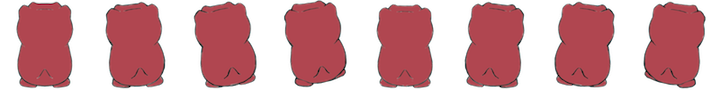
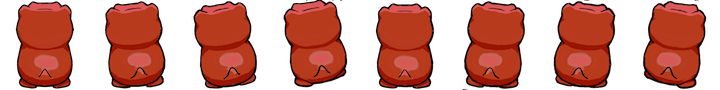
Added new enemy spritesheets

diff --git a/core/src/tiktaalik/trino/enemy/Enemy.java b/core/src/tiktaalik/trino/enemy/Enemy.java
@@ -371,13 +371,20 @@ public class Enemy extends EdibleObject {
      * @param canvas Drawing context
      */
     public void draw(Canvas canvas) {
+        float offsetX = 0;
+        float offsetY = 9;
+        if (direction == UP || direction == DOWN) {
+            offsetX = 3.5f;
+            offsetY = 13f;
+        }
+
         if (eatInProgress && eatenTextureSet != null) {
             if (animeframe >= numEatenFrames)
                 return;
 
             eatenTextureSet.setFrame((int)animeframe);
-            canvas.draw( eatenTextureSet, Color.WHITE,origin.x,origin.y,getX()*drawScale.x,
-                    getY()*drawScale.x,0,1,1);
+            canvas.draw(eatenTextureSet, Color.WHITE,origin.x,origin.y,getX()*drawScale.x + offsetX,
+                    getY()*drawScale.x + offsetY,0,1,1);
 
             return;
         }
@@ -392,7 +399,8 @@ public class Enemy extends EdibleObject {
 
         textureSet[filmStripItem].setFrame((int)animeframe);
         if (textureSet[filmStripItem] != null) {
-            canvas.draw(textureSet[filmStripItem], Color.WHITE,origin.x,origin.y,getX()*drawScale.x,getY()*drawScale.x + 9,0,1,1);
+            canvas.draw(textureSet[filmStripItem], Color.WHITE,origin.x,origin.y,getX()*drawScale.x + offsetX,
+                    getY()*drawScale.x + offsetY,0,1,1);
         }
     }
 
